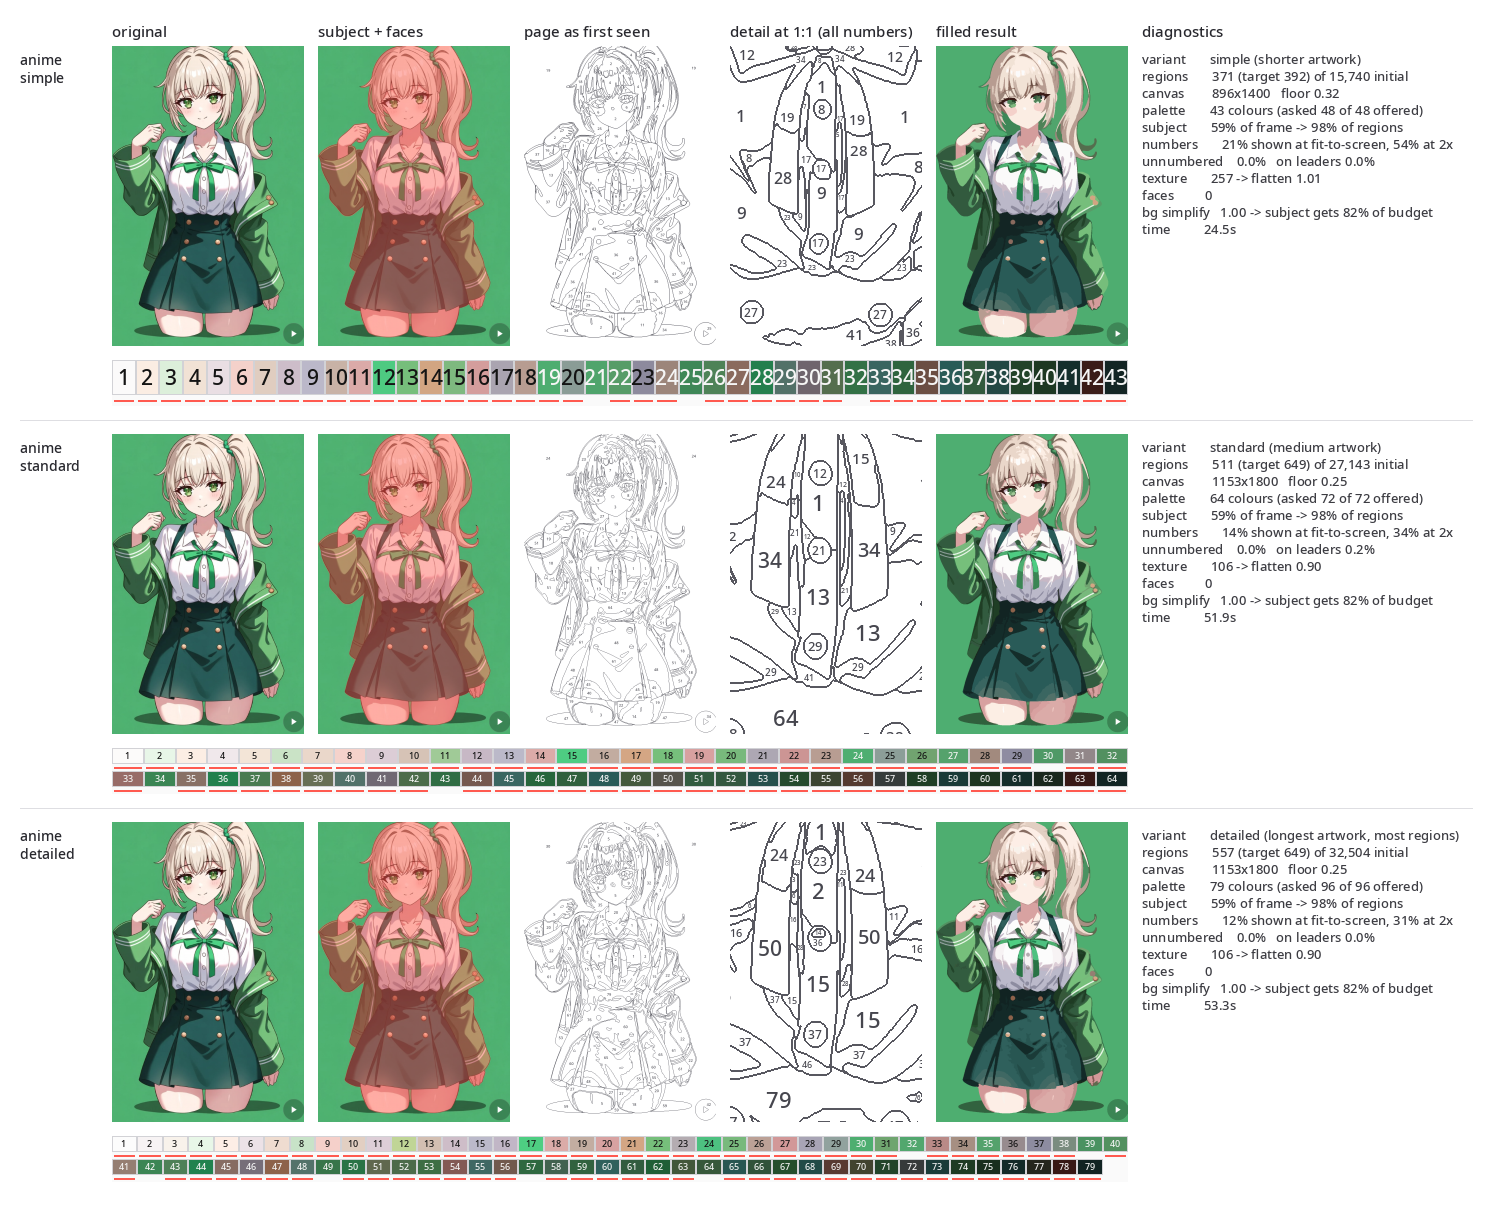
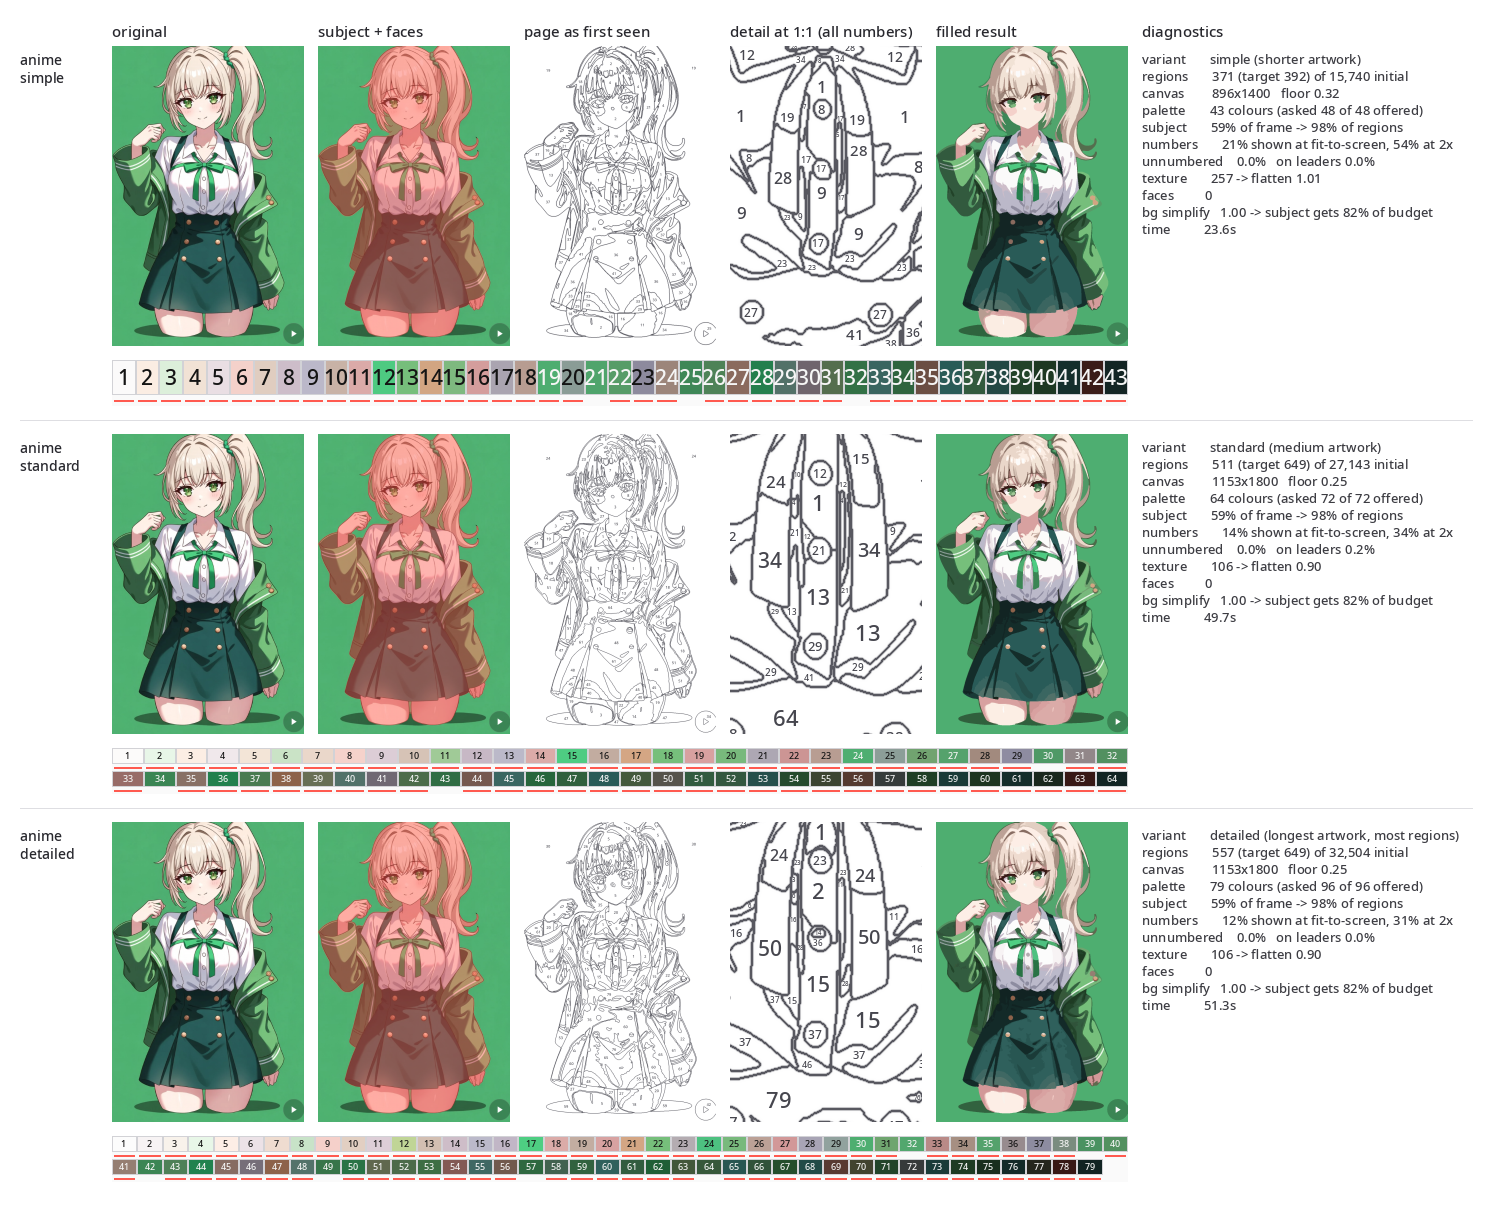
Keep unstylised as the product; fix texture-after-upscale and variant inversion
DECISION RECORDED: stylisation stays OFF by default. The reviewer compared stylised
against unstylised twice, the second time on output with texture gating and
unstylised colour sourcing, and chose unstylised both times. pbn/stylise.py stays
behind --stylise because the finding is worth keeping, but it is not the product.

The remaining softness is IRREDUCIBLE, not a bug, and that is what makes the
decision final rather than provisional. The fixable part was real and was fixed:
early stylised output took region colours from the stylised image. The irreducible
part is that region BOUNDARIES derive from the stylised image, so textured areas get
larger regions, and a larger region averages more of the photo into one flat colour.
Less detail there is the definition of what was asked for, not a defect. Future
attempts must beat that trade, not rediscover it.

SOFTENED OUTLINES are in the default path for every render - feathered boundary
alpha instead of hard 1px lines. The reviewer's separate request, no fidelity cost,
and it delivers much of the page comfort stylisation was chasing.

TWO DEFECTS FOUND FROM A REVIEWER SCREENSHOT:

1. Texture was measured on the WORKING canvas, after upscaling. Upscaling spreads
   fine gradients over more pixels and collapses the Laplacian response: cat fur
   measured 398.6 at native 451px and 4.7 after enlargement to 1800px, an 85x drop.
   That silently disabled flattening on exactly the images needing it most. Texture
[…]

diff --git a/pipeline/pbn/preprocess.py b/pipeline/pbn/preprocess.py
@@ -168,7 +168,7 @@ def suggest_strength(img: np.ndarray) -> float:
     return float(np.clip(strength, MIN_USEFUL_STRENGTH, MAX_USEFUL_STRENGTH))
 
 
-def _bilateral_cascade(img: np.ndarray, strength: float) -> np.ndarray:
+def _bilateral_cascade(img: np.ndarray, strength: float, spatial_scale: float = 1.0) -> np.ndarray:
     """Repeated moderate bilateral passes.
 
     Two or three moderate passes flatten more thoroughly than one aggressive pass while
@@ -177,10 +177,14 @@ def _bilateral_cascade(img: np.ndarray, strength: float) -> np.ndarray:
     """
     passes = 2 if strength <= 1.0 else 3
     sigma_color = float(np.clip(28.0 * strength, 10.0, 110.0))
-    sigma_space = float(np.clip(9.0 * strength, 5.0, 25.0))
+    # sigmaSpace is measured in PIXELS, so it must scale with the canvas. On an image upscaled 4x,
+    # every feature is 4x larger while a fixed kernel covers a quarter of what it was tuned for,
+    # leaving fur and hair barely touched.
+    sigma_space = float(np.clip(9.0 * strength * spatial_scale, 5.0, 60.0))
+    diameter = max(5, int(round(7 * spatial_scale)) | 1)
     out = img
     for _ in range(passes):
-        out = cv2.bilateralFilter(out, d=7, sigmaColor=sigma_color, sigmaSpace=sigma_space)
+        out = cv2.bilateralFilter(out, d=diameter, sigmaColor=sigma_color, sigmaSpace=sigma_space)
     return out
 
 
@@ -209,7 +213,10 @@ def _mean_shift(img: np.ndarray, strength: float) -> np.ndarray:
 
 
 def flatten(
-    img: np.ndarray, strength: float | None = None, mode: FlattenMode = DEFAULT_MODE
+    img: np.ndarray,
+    strength: float | None = None,
+    mode: FlattenMode = DEFAULT_MODE,
+    spatial_scale: float = 1.0,
 ) -> np.ndarray:
     """Flatten ``img`` (RGB uint8) ahead of quantisation.
 
@@ -221,7 +228,7 @@ def flatten(
     if strength <= 0:
         return img.copy()
     if mode == "bilateral":
-        return _bilateral_cascade(img, strength)
+        return _bilateral_cascade(img, strength, spatial_scale)
     if mode == "edgepreserve":
         return _edge_preserving(img, strength)
     if mode == "meanshift":
@@ -256,6 +263,8 @@ def flatten_texture_adaptive(
     simplify_background: float = 0.0,
     texture_strength: float = TEXTURE_FLATTEN_STRENGTH,
     mode: FlattenMode = DEFAULT_MODE,
+    base_strength: float | None = None,
+    spatial_scale: float = 1.0,
 ) -> np.ndarray:
     """Flatten with extra force wherever local texture is high.
 
@@ -269,11 +278,16 @@ def flatten_texture_adaptive(
     regions: 42% on a long-hair portrait, 4-18% on everything else — it helps every image tested and
     helps most where the problem is worst.
     """
-    base = suggest_strength(img)
+    base = suggest_strength(img) if base_strength is None else base_strength
     light = flatten_differential(
-        img, subject_mask, simplify_background=simplify_background, mode=mode
+        img,
+        subject_mask,
+        simplify_background=simplify_background,
+        mode=mode,
+        base_strength=base,
+        spatial_scale=spatial_scale,
     )
-    heavy = flatten(img, strength=base * texture_strength, mode=mode)
+    heavy = flatten(img, base * texture_strength, mode, spatial_scale)
     weight = local_texture(img)[:, :, None]
     blended = light.astype(np.float32) * (1.0 - weight) + heavy.astype(np.float32) * weight
     return np.clip(blended, 0, 255).astype(np.uint8)
@@ -286,6 +300,8 @@ def flatten_differential(
     background_scale: float = 1.8,
     mode: FlattenMode = DEFAULT_MODE,
     simplify_background: float = 0.0,
+    base_strength: float | None = None,
+    spatial_scale: float = 1.0,
 ) -> np.ndarray:
     """Flatten background harder than subject, then composite along the silhouette.
 
@@ -308,13 +324,13 @@ def flatten_differential(
     photo and unpleasant to colour — the point at which faithfulness and appeal diverge, and
     appeal should win.
     """
-    base = suggest_strength(img)
+    base = suggest_strength(img) if base_strength is None else base_strength
     background_scale = background_scale * (1.0 + simplify_background * BACKGROUND_SIMPLIFY_BOOST)
 
     if subject_mask is None:
-        return flatten(img, strength=base * background_scale, mode=mode)
+        return flatten(img, base * background_scale, mode, spatial_scale)
 
-    subject = flatten(img, strength=base * subject_scale, mode=mode)
-    background = flatten(img, strength=base * background_scale, mode=mode)
+    subject = flatten(img, base * subject_scale, mode, spatial_scale)
+    background = flatten(img, base * background_scale, mode, spatial_scale)
     keep_subject = (subject_mask > 127)[:, :, None]
     return np.where(keep_subject, subject, background)

diff --git a/pipeline/pbn/pipeline.py b/pipeline/pbn/pipeline.py
@@ -127,9 +127,9 @@ class Variant:
 # Colour saturates early; region count is the real lever. Palettes are capped at 96 accordingly —
 # beyond that the palette tray gets harder to use for no visible gain.
 VARIANTS: dict[str, Variant] = {
-    "simple": Variant("simple", 48, 1.0, 1400, "shorter artwork"),
+    "simple": Variant("simple", 48, 1.6, 1400, "shorter artwork"),
     "standard": Variant("standard", 72, 1.0, 1900, "medium artwork"),
-    "detailed": Variant("detailed", 96, 1.0, 2400, "longest artwork, most regions"),
+    "detailed": Variant("detailed", 96, 0.72, 2400, "longest artwork, most regions"),
 }
 DEFAULT_VARIANTS = ("simple", "standard", "detailed")
 
@@ -306,8 +306,15 @@ def convert(
     face_mask = detected_faces.mask if detected_faces is not None and detected_faces.found else None
 
     t = time.perf_counter()
-    texture = preprocess.texture_score(working)
-    strength = preprocess.suggest_strength(working)
+    # Texture is measured on the ORIGINAL source, never the working canvas. Upscaling spreads every
+    # fine gradient over more pixels and collapses the Laplacian response: cat fur measured 398.6 at
+    # its native 451px and 4.7 after enlargement to 1800px, an 85x drop, which silently disabled the
+    # flattening on exactly the images that need it most.
+    texture = preprocess.texture_score(img)
+    strength = preprocess.suggest_strength(img)
+    # Filter kernels are sized in pixels, so they must grow with the canvas to cover the same
+    # features. Without this an upscaled image is barely smoothed at all.
+    spatial_scale = max(1.0, max(working.shape[:2]) / max(max(img.shape[:2]), 1))
     simplify = preprocess.background_simplification(working, mask)
     # Stylisation runs *after* subject and face detection, never before. Detecting on the stylised
     # image degrades both: measured, face count on a two-person photo fell from 3 to 1 because the
@@ -316,13 +323,25 @@ def convert(
     if stylise_input:
         timings["stylise"] = 0.0  # folded into the flatten timing below
 
-    flat = preprocess.flatten_texture_adaptive(styled, mask, simplify_background=simplify)
+    flat = preprocess.flatten_texture_adaptive(
+        styled,
+        mask,
+        simplify_background=simplify,
+        base_strength=strength,
+        spatial_scale=spatial_scale,
+    )
     # Region *shapes* come from the quantised (possibly stylised) image, but region *colours* are
     # averaged from this array. Sampling the unstylised image therefore gives clean blobby
     # boundaries with colour faithful to the original photo, instead of paying for the shapes with
     # washed-out fill.
     colour_source = (
-        preprocess.flatten_texture_adaptive(working, mask, simplify_background=simplify)
+        preprocess.flatten_texture_adaptive(
+            working,
+            mask,
+            simplify_background=simplify,
+            base_strength=strength,
+            spatial_scale=spatial_scale,
+        )
         if stylise_input
         else flat
     )

diff --git a/pipeline/bench/render_one.py b/pipeline/bench/render_one.py
@@ -1,0 +1,38 @@
+"""Render a single image's contact sheet under an explicit output name."""
+
+import sys
+
+from pbn import contact, images, pipeline
+
+name = sys.argv[1]
+dest = sys.argv[2]
+search = ["../corpus", "../corpus/dev"]
+path = next(q for d in search for q in images.list_images(d) if q.stem == name)
+raw = images.load(path)
+
+rows = []
+for v in ("simple", "standard", "detailed"):
+    c = pipeline.convert(
+        raw, pipeline.VARIANTS[v], subject_cache=".cache/subject", model_cache=".cache/models"
+    )
+    rows.append(
+        contact.build_row(
+            original=c.working,
+            subject_mask=c.subject_mask,
+            labels=c.labels,
+            region_colour=c.region_colour,
+            palette_rgb=c.palette_rgb,
+            numbering=c.numbering,
+            title=f"{name}\n{v}",
+            caption=c.caption(),
+            from_subject=c.from_subject,
+            face_mask=c.face_mask,
+        )
+    )
+    print(
+        f"  {v:9s} {c.n_regions:5,d} regions  {c.n_colours:3d} col  "
+        f"texture {c.texture:5.0f} -> flatten {c.flatten_strength:.2f}  "
+        f"initial {c.initial_regions:,}"
+    )
+contact.write_sheet(rows, dest)
+print(f"wrote {dest}")

diff --git a/docs/PHASE0-FINDINGS.md b/docs/PHASE0-FINDINGS.md
@@ -755,3 +755,64 @@ stylisation being a trade-off and being close to free.
 `porto` loses real content (842 → 507 regions): the morphology removed enough structure that the
 area-derived target became unreachable. Stylisation is not universally free, which is why it stays
 **opt-in** with its own output directory rather than becoming the default.
+
+
+---
+
+# Addendum 7: stylisation rejected; what that settles
+
+The reviewer compared stylised against unstylised output across the whole corpus — twice, the second
+time on output with texture gating and unstylised colour sourcing — and chose **unstylised** both
+times. Stylisation stays implemented but **off by default**, reachable via `pbn convert --stylise`.
+
+## The verdict is sound, and worth understanding rather than just recording
+
+Two different causes of softness were tangled together, and separating them is what makes this
+decision final rather than something to revisit on a whim.
+
+**Fixable, and fixed.** The first stylised output took region *colours* from the stylised image, so
+the fill was washed out on top of everything else. Colours now come from the unstylised image, and
+that mushiness is gone — verified on a phone photo where the filled result became indistinguishable
+from unstylised at the same region count and palette.
+
+**Irreducible.** Region *boundaries* still derive from the stylised image, so textured areas get
+larger regions, and a larger region averages more of the photo into one flat colour. **Less detail in
+those areas is precisely what was requested, not a defect.** No amount of engineering removes it,
+because it is the trade itself rather than a flaw in how the trade was implemented.
+
+So the two goals genuinely conflict, but only *in textured areas*:
+
+| | smoother regions to paint | sharp finished artwork |
+|---|---|---|
+| smooth areas (skin, sky, walls) | already fine | already fine — gating leaves them untouched |
+| textured areas (hair, foliage) | needs larger regions | needs smaller regions |
+
+Texture gating narrowed the conflict to the smallest possible footprint (11-36% of pixels) and could
+not eliminate it. Anything future work tries has to *beat* this trade; rediscovering it is not
+progress.
+
+## What was kept from the exercise
+
+**Softened outlines**, now in the default path for every render: feathered boundary alpha instead of
+hard 1px lines. This was the reviewer's separate request, costs nothing in fidelity, and delivers
+much of the page-comfort improvement stylisation was chasing. A hard binary line is what a plotter
+draws; in dense areas it becomes a wiry mesh.
+
+**Upscaling small sources**, which was by far the larger quality win of the two changes in this round
+— a 0.4MP image went from 119 regions and 36 colours to 811 and 90.
+
+**The stylisation module itself**, documented and opt-in. If a learned photo-to-illustration model
+becomes reachable it should be evaluated against this same trade, with the same measurements, and the
+classical styliser gives it a baseline to beat.
+
+## Standing conclusion on the page-appearance problem
+
+Six attempts now: boundary smoothing, shape-aware merge cost, background simplification,
+texture-adaptive flattening, morphological stylisation, and texture-gated morphological stylisation.
+The first four moved the metric by single-digit percentages. The last two worked as designed and were
+rejected on the fidelity cost.
+
+That is a strong signal that the appearance of a photo-derived page is not a tuning problem. Within a
+region-fill model, boundaries follow the photo's own colour structure, and a photograph's structure
+is not what an illustrator would draw. Accepting a somewhat busier page than an illustration-based
+app is the honest position, with softened lines to take the edge off.

diff --git a/.kiro/steering/project.md b/.kiro/steering/project.md
@@ -7,6 +7,30 @@ conversion quality.
 
 See `ROADMAP.md` for full phasing and estimates.
 
+## Settled decisions — do not re-litigate
+
+**Stylisation is OFF by default and stays that way.** The reviewer compared stylised against
+unstylised output across the full corpus, twice, and chose unstylised both times: the stylised
+result still reads soft where it matters. `pbn/stylise.py` remains available behind
+`pbn convert --stylise` because the finding is worth keeping, but it is not the product.
+
+The remaining softness is **irreducible, not a bug**, and that distinction is what makes the
+decision final rather than provisional:
+
+* The *fixable* part was real and was fixed — early stylised output took its region colours from
+  the stylised image, which washed the fill out. Colours now come from the unstylised image.
+* The *irreducible* part is that region **boundaries** derive from the stylised image, so textured
+  areas get larger regions. A larger region averages more of the original photo into one flat
+  colour. Less detail in those areas is the definition of what was asked for, not a defect.
+
+So "smoother regions to paint" and "sharp finished artwork" are genuinely in conflict *in textured
+areas specifically*, and the reviewer's priority is the finished artwork. Any future attempt has to
+beat that trade, not rediscover it.
+
+**Softened outlines are in the default path.** Feathered boundary alpha rather than hard 1px lines,
+applied to every render. This was the reviewer's explicit request and carries no fidelity cost, so it
+delivers most of the page-comfort benefit that stylisation was chasing, for free.
+
 ## Three-tier region allocation
 
 Regions get one of three floors on effective radius, finest to coarsest: **face, subject,
